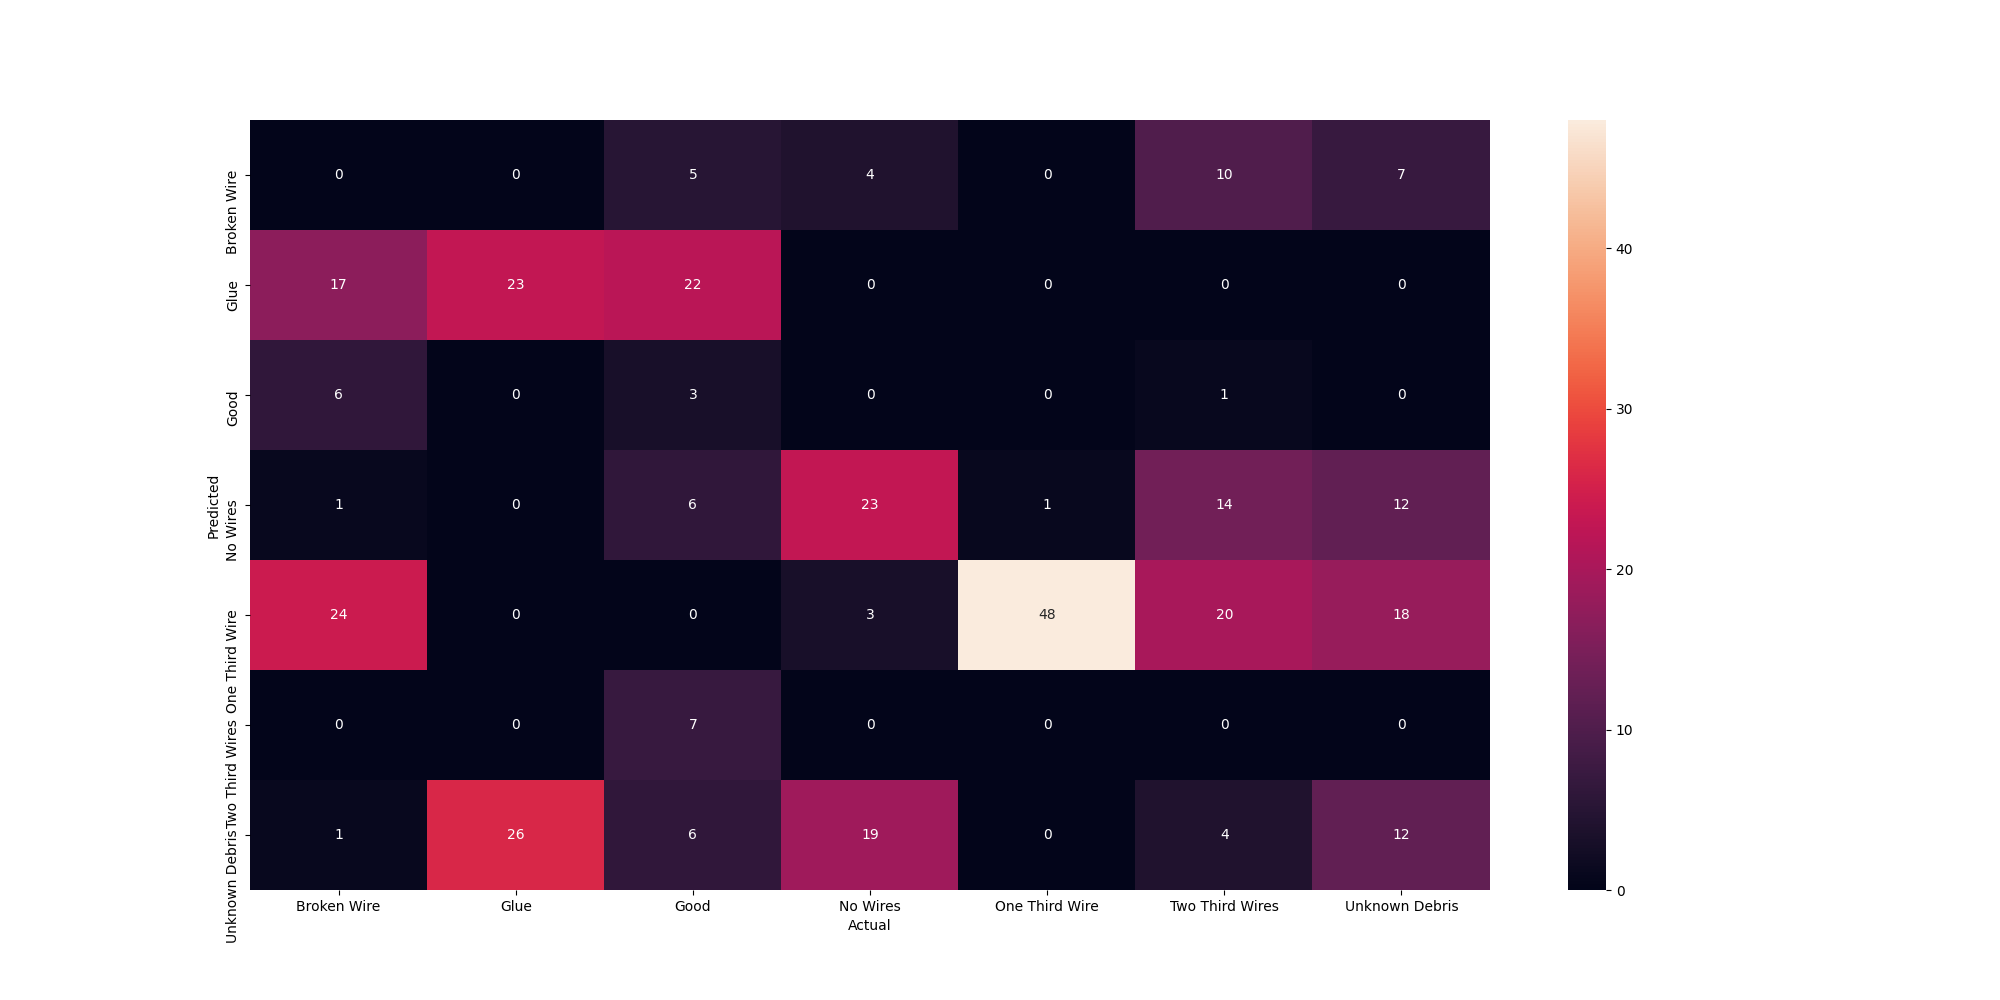
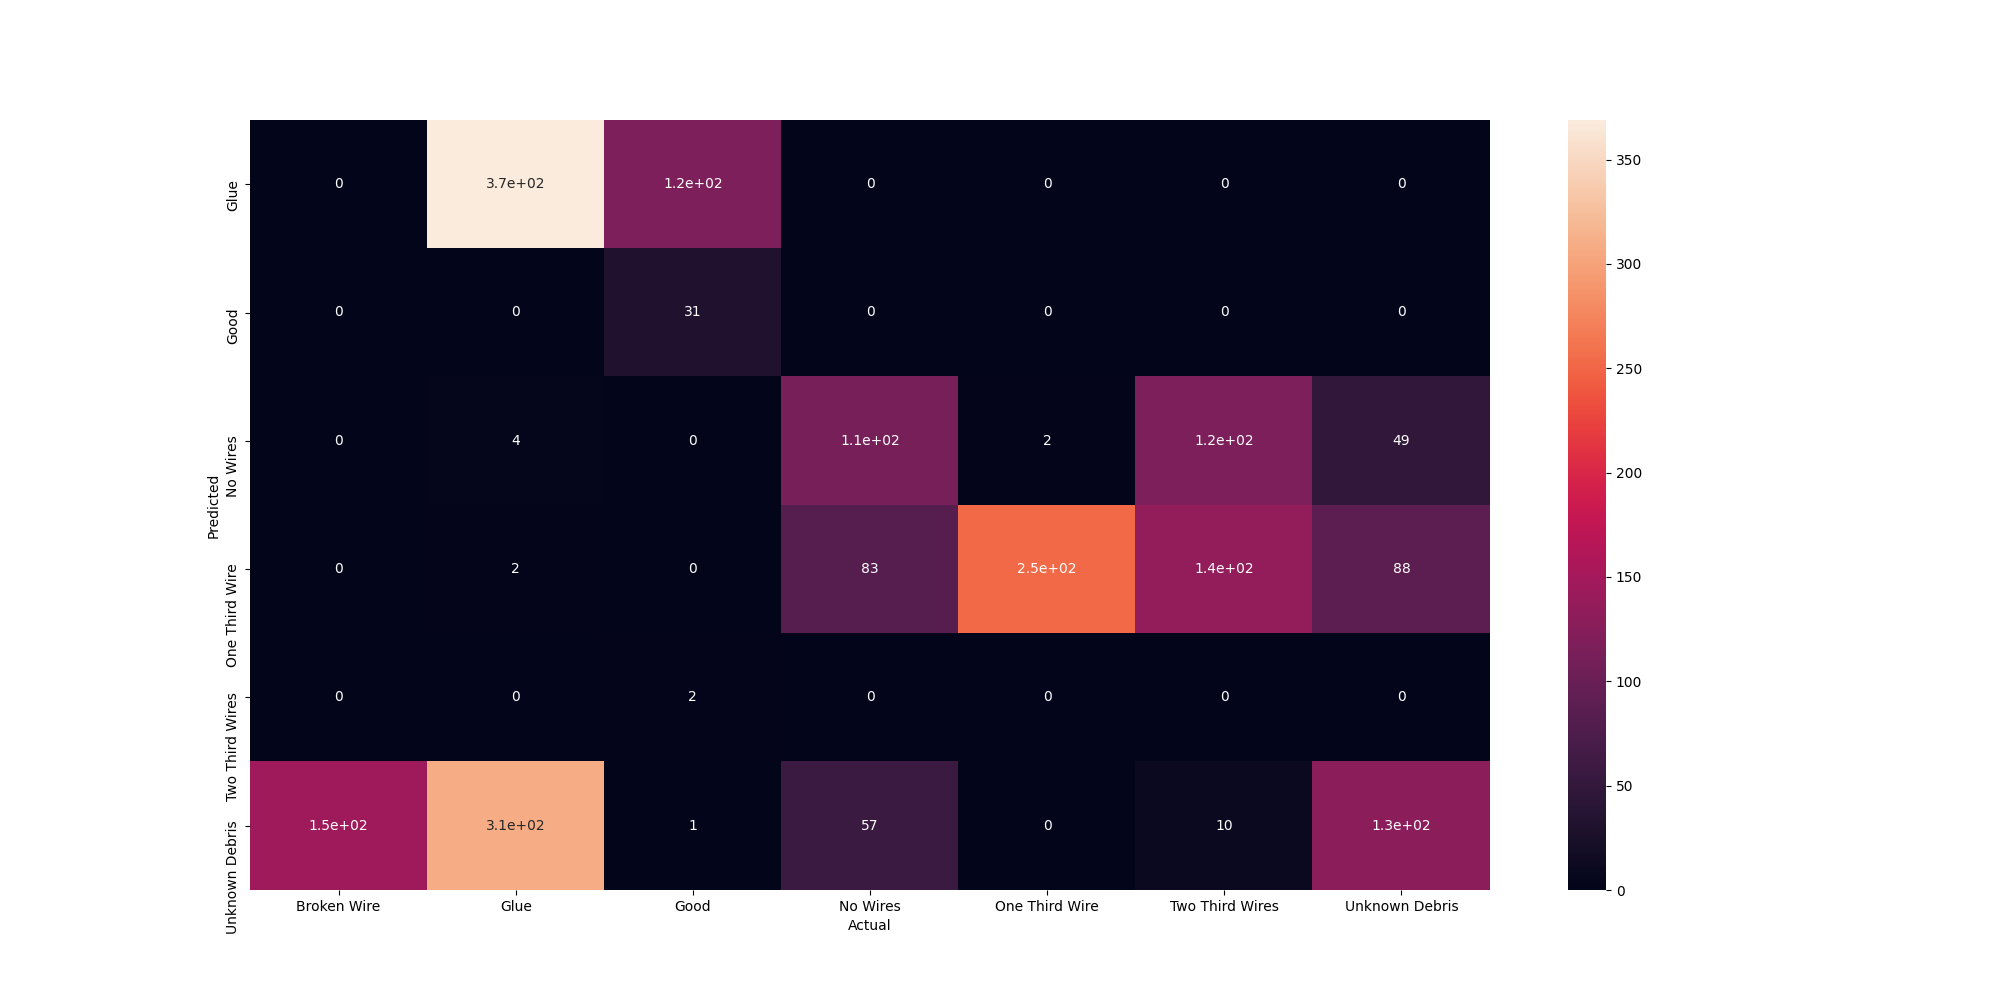
ran test script on jordans testing dataset

diff --git a/test_model.py b/test_model.py
@@ -20,7 +20,7 @@ class_names = ['Broken Wire', 'Glue', 'Good', 'No Wires', 'One Third Wire', 'Two
 
 now = dt.datetime.now().strftime("%m_%d_%I:%M:%S%p")
 MOST_RECENT_MODEL = find_most_recent('models')
-CUSTOM_MODEL_NAME = "05_05_7:24:21PM"
+CUSTOM_MODEL_NAME = ""
 
 def main(make_notes=True, class_names=class_names, test_data_path=test_data_path, model_name=MOST_RECENT_MODEL, size=(480,480)):
 
@@ -28,7 +28,6 @@ def main(make_notes=True, class_names=class_names, test_data_path=test_data_path
   try: 
     model_path = sys.argv[1]
     model_name = re.search('[^\/]*$',model_path).group()
-    print(model_name)
     model = keras.models.load_model(f"{model_path}") 
   except IndexError:
     model = keras.models.load_model(f"models/{model_name}") 

diff --git a/scripts/find_most_recent.py b/scripts/find_most_recent.py
@@ -14,6 +14,5 @@ def find_most_recent(directory):
 
   most_recent = max(dt for dt in datetimes if dt < now)
   mr = most_recent.strftime("%m_%d_%-I:%M:%S%p")
-  print(mr)
   return mr
 

diff --git a/notes/05_26_11:21:58PM.md b/notes/05_26_11:21:58PM.md
@@ -1,22 +1,20 @@
 ## 05_26_11:21:58PM 
 
-This one was pulled from server
-
 ## Stats 
 ```
-Total Tests: 343
-correct predictions: 109
-incorrect predictions: 234
-Percentage correct: 31.78%
+Total Tests: 2020
+correct predictions: 896
+incorrect predictions: 1124
+Percentage correct: 44.36%
 =======================
 Most missed predictions
-Broken Wire:  49
-Glue:  26
-Good:  46
-No Wires:  26
-One Third Wire:  1
-Two Third Wires:  49
-Unknown Debris:  37
+Broken Wire:  146
+Glue:  315
+Good:  121
+No Wires:  140
+One Third Wire:  2
+Two Third Wires:  263
+Unknown Debris:  137
 ``` 
 ### Model Summary 
 ```Model: "sequential"
